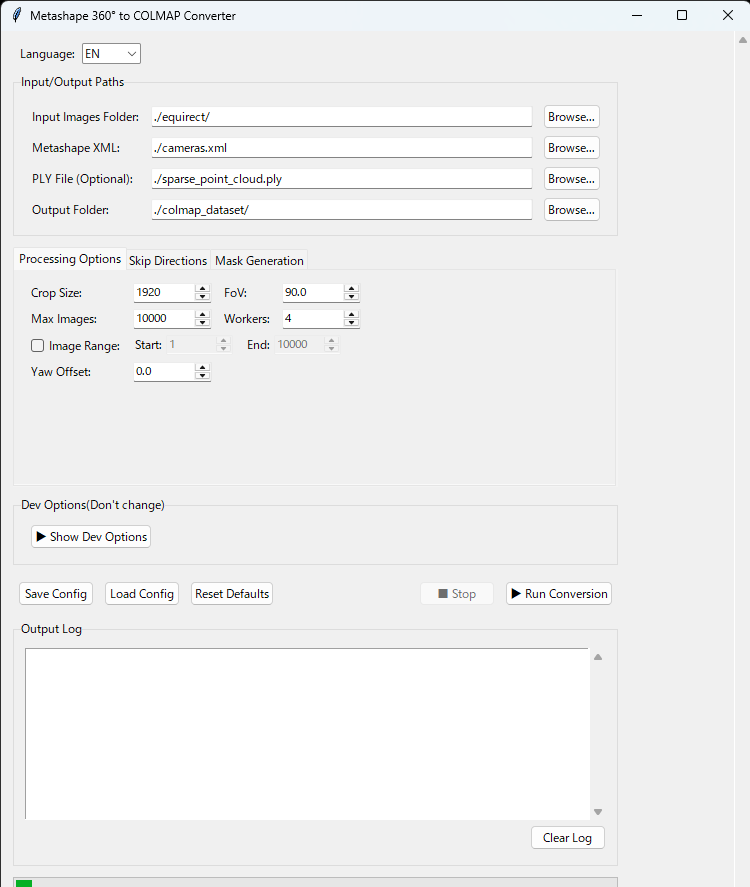
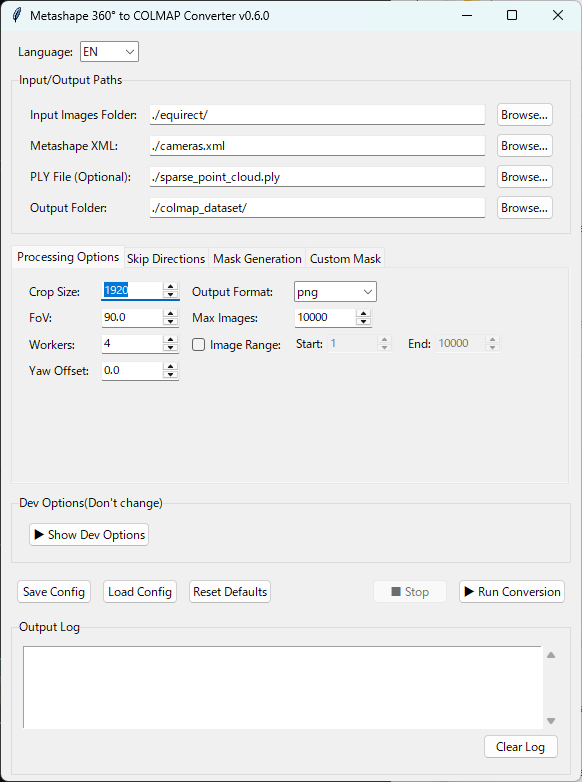
Added custom mask in v0.6.0

diff --git a/[EN]Easy&Fast 3D Gaussian Splatting workflow with 360 Camera.md b/[EN]Easy&Fast 3D Gaussian Splatting workflow with 360 Camera.md
@@ -138,7 +138,7 @@ Here I introduce the tool I have published.
 **Metashape 360 to COLMAP Converter**  
 * **New features are prioritized for updates in the BOOTH edition**  
 ### Settings ①  
-![](https://storage.googleapis.com/zenn-user-upload/e7cf4c196027-20260322.png)
+![](./images/MS360CC.png)
 
 | Main Item          | Description |
 |--------------------|-------------|
@@ -169,6 +169,10 @@ Here I introduce the tool I have published.
 | YOLO Class IDs        | Specify detected object IDs. 0: person, 1: bicycle, 2: car, etc. You can specify various moving objects. https://github.com/ultralytics/ultralytics/blob/main/ultralytics/cfg/datasets/coco.yaml |
 | YOLO Confidence       | Lowering the threshold increases detection rate but also increases noise. |
 | Enable overexposure mask | Overexposed (blown-out) pixels can become noise during 3DGS training. Enable this if you want to remove them. |
+
+### Settings ③ (Advanced Settings)
+* You can load the custom masks configured in Extract Sharpest Frame. This is useful when used together with a camera rig. Specify mask images as PNG files with the same file count, resolution, and filenames as the still images.
+![](./images/MS360CC_2_1.png)
 
 ### Execute  
 After processing completes successfully, the following folders and files are generated in the output folder.  
